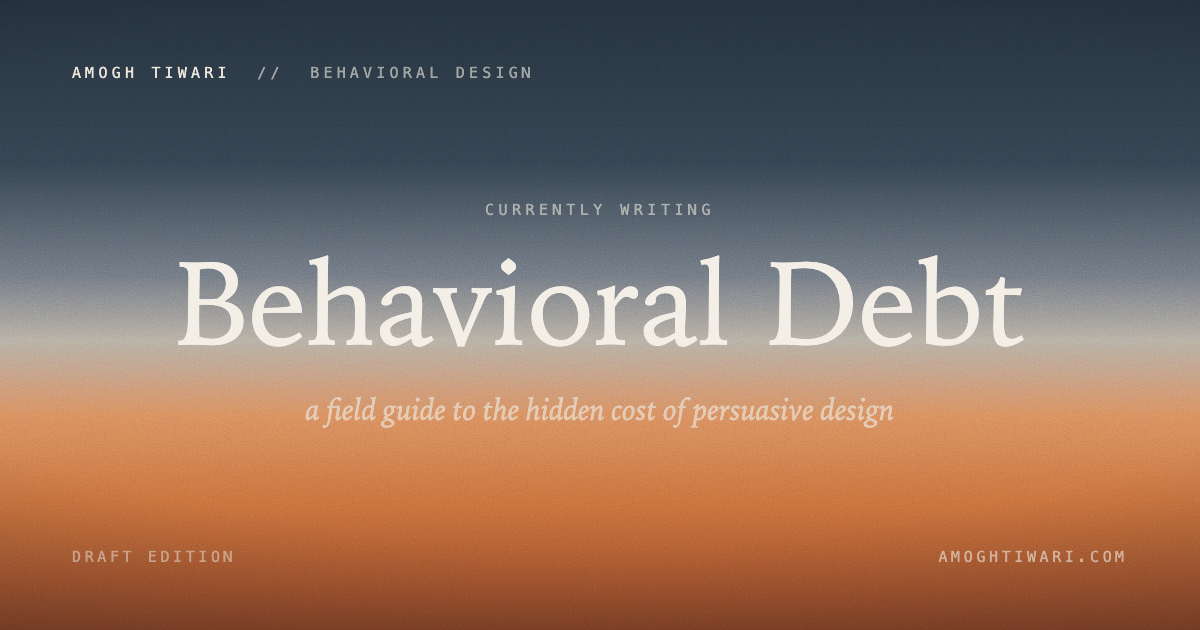
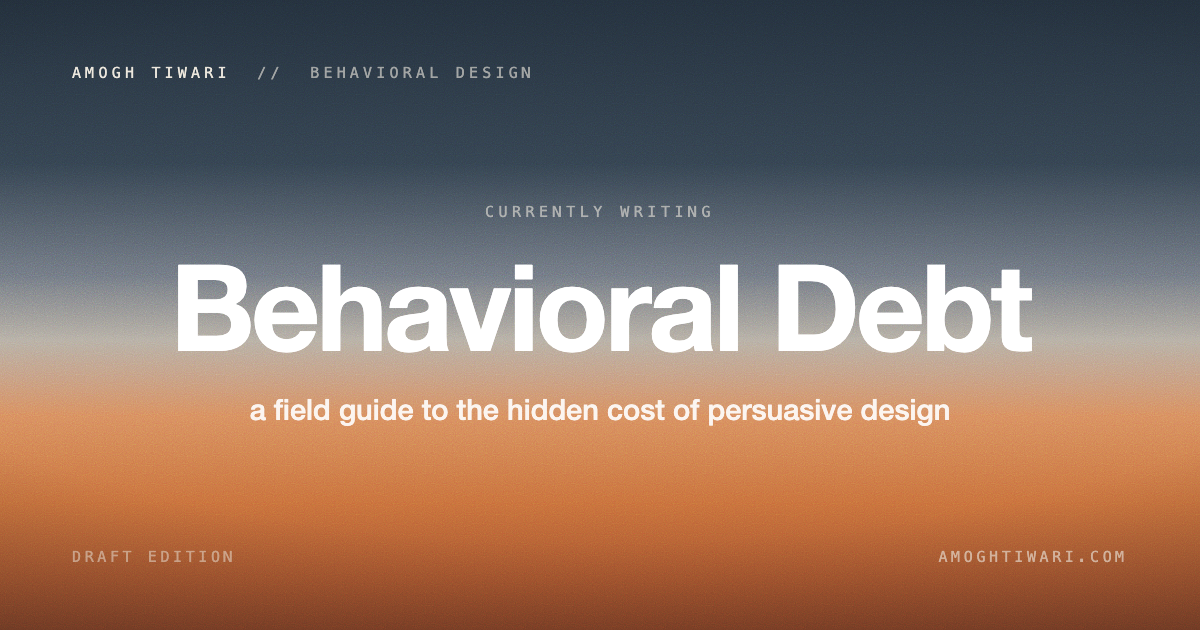
Home: Helvetica white bold, longer cinematic teleport, updated thumbnail, Media mentions

diff --git a/index.html b/index.html
@@ -23,8 +23,8 @@
   :root{
     --cream:#ece7dd; --dim:rgba(240,236,228,.85); --faint:rgba(240,236,228,.62);
     --line:rgba(236,231,221,.22); --accent:#e08a4e;
-    --serif:"Iowan Old Style","Palatino Linotype",Palatino,"Times New Roman",Georgia,serif;
-    --mono:"SFMono-Regular",ui-monospace,Menlo,Consolas,"Liberation Mono",monospace;
+    --serif:"Helvetica Neue",Helvetica,Arial,sans-serif;
+    --mono:"Helvetica Neue",Helvetica,Arial,sans-serif;
   }
   *{box-sizing:border-box;margin:0;padding:0}
   html,body{height:100%}
@@ -68,10 +68,10 @@
   .eyebrow{color:var(--dim);position:relative;padding:0 1.6rem;margin-bottom:2.4rem;}
   .eyebrow::before,.eyebrow::after{content:"";position:absolute;top:50%;width:1rem;height:1px;background:var(--line);}
   .eyebrow::before{left:-.3rem} .eyebrow::after{right:-.3rem}
-  h1{font-family:var(--serif);font-weight:400;font-size:clamp(2.6rem,7.4vw,5.6rem);line-height:1.02;
-    letter-spacing:.005em;color:#f3efe7;text-wrap:balance;max-width:16ch;}
-  .by{font-family:var(--serif);font-style:italic;font-size:clamp(1.05rem,2.4vw,1.5rem);
-    color:rgba(240,236,228,.9);margin-top:1.5rem;letter-spacing:.02em;}
+  h1{font-family:var(--serif);font-weight:700;font-size:clamp(2.6rem,7.4vw,5.6rem);line-height:1.0;
+    letter-spacing:-.025em;color:#ffffff;text-wrap:balance;max-width:16ch;}
+  .by{font-family:var(--serif);font-style:normal;font-weight:500;font-size:clamp(1.05rem,2.4vw,1.5rem);
+    color:#ffffff;margin-top:1.5rem;letter-spacing:0;}
   .meta{margin-top:1.7rem;color:var(--faint);font-size:.6rem;letter-spacing:.22em;}
   .meta .dot{color:var(--accent);}
   .live{margin-top:1.5rem;font-size:.6rem;letter-spacing:.22em;text-transform:uppercase;color:var(--faint);
@@ -114,8 +114,8 @@
   .p-close:hover{background:rgba(236,231,221,.14);}
   .p-inner{position:relative;z-index:2;max-width:66rem;margin:0 auto;padding:2rem 2.2rem 5rem;}
   .p-top{display:flex;justify-content:space-between;padding:.4rem 0 3rem;}
-  .p-name{font-family:var(--serif);font-weight:400;font-size:clamp(3rem,11vw,7.4rem);line-height:.9;
-    color:#f3efe7;letter-spacing:.01em;margin-bottom:1.7rem;}
+  .p-name{font-family:var(--serif);font-weight:700;font-size:clamp(3rem,11vw,7.4rem);line-height:.9;
+    color:#ffffff;letter-spacing:-.03em;margin-bottom:1.7rem;}
   .p-portrait{position:relative;overflow:hidden;aspect-ratio:16/9;background:#26313c;}
   .p-portrait img{width:100%;height:100%;object-fit:cover;filter:grayscale(1) contrast(1.04);display:block;position:relative;z-index:2;}
   .p-portrait::after{content:"";position:absolute;inset:0;z-index:3;
@@ -156,9 +156,9 @@
   .p-soon{font-family:var(--mono);font-size:.68rem;letter-spacing:.14em;text-transform:uppercase;color:var(--faint);}
 
   /* teleport: zoom into the shader, then open the book */
-  .warp .stage{transform:scale(1.9);opacity:0;transform-origin:50% 46%;transition:transform .8s cubic-bezier(.6,0,.15,1),opacity .8s ease;}
-  .warp #fx,.warp .sky{transform:scale(1.5);transition:transform .8s cubic-bezier(.6,0,.15,1);}
-  .warp .grain,.warp .vig,.warp .mtoggle{opacity:0;transition:opacity .5s;}
+  .warp .stage{transform:scale(2.3);opacity:0;transform-origin:50% 46%;transition:transform 1.4s cubic-bezier(.55,0,.1,1),opacity 1.2s ease .15s;}
+  .warp #fx,.warp .sky{transform:scale(1.85);filter:brightness(1.25) saturate(1.15);transition:transform 1.4s cubic-bezier(.55,0,.1,1),filter 1.4s ease;}
+  .warp .grain,.warp .vig,.warp .mtoggle{opacity:0;transition:opacity .8s;}
 
   @media (max-width:680px){
     .stage{padding:1.3rem 1.3rem;}
@@ -277,7 +277,7 @@
           </div>
         </div>
         <div class="p-section">
-          <p class="p-sh">Media</p>
+          <p class="p-sh">Media mentions</p>
           <p class="p-soon">Coming soon</p>
         </div>
       </div>
@@ -323,7 +323,7 @@
       e.preventDefault();
       window.__warp=true;
       document.body.classList.add('warp');
-      setTimeout(function(){ window.location.href = cta.getAttribute('href'); }, 780);
+      setTimeout(function(){ window.location.href = cta.getAttribute('href'); }, 1350);
     });
   })();
 </script>